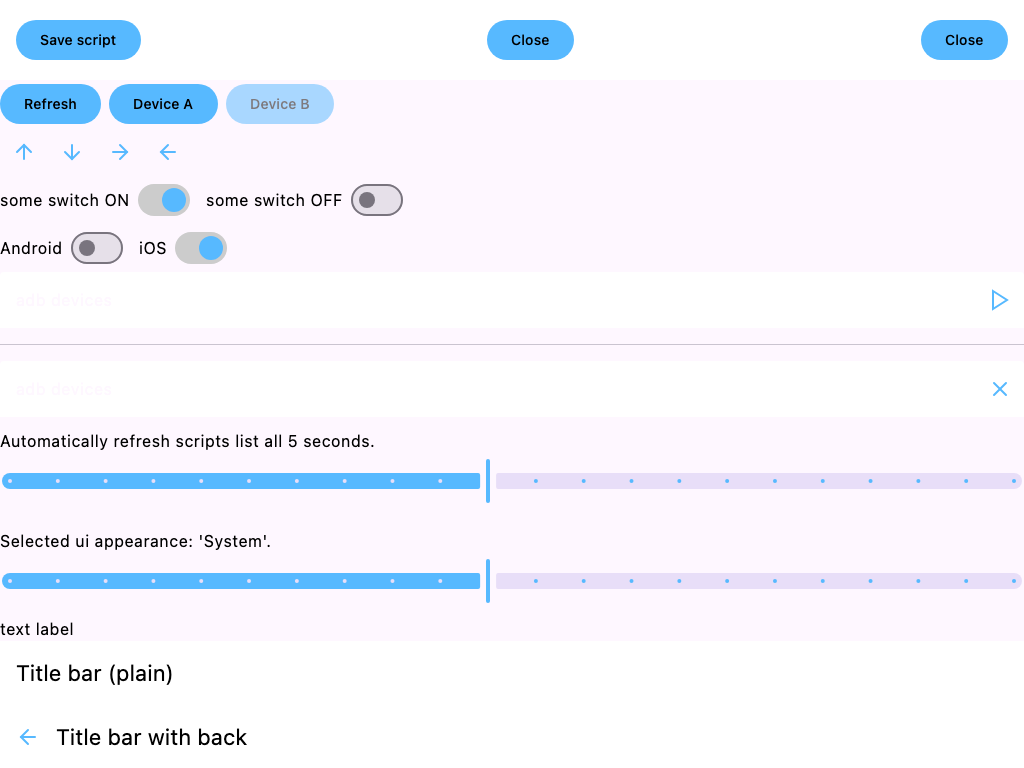
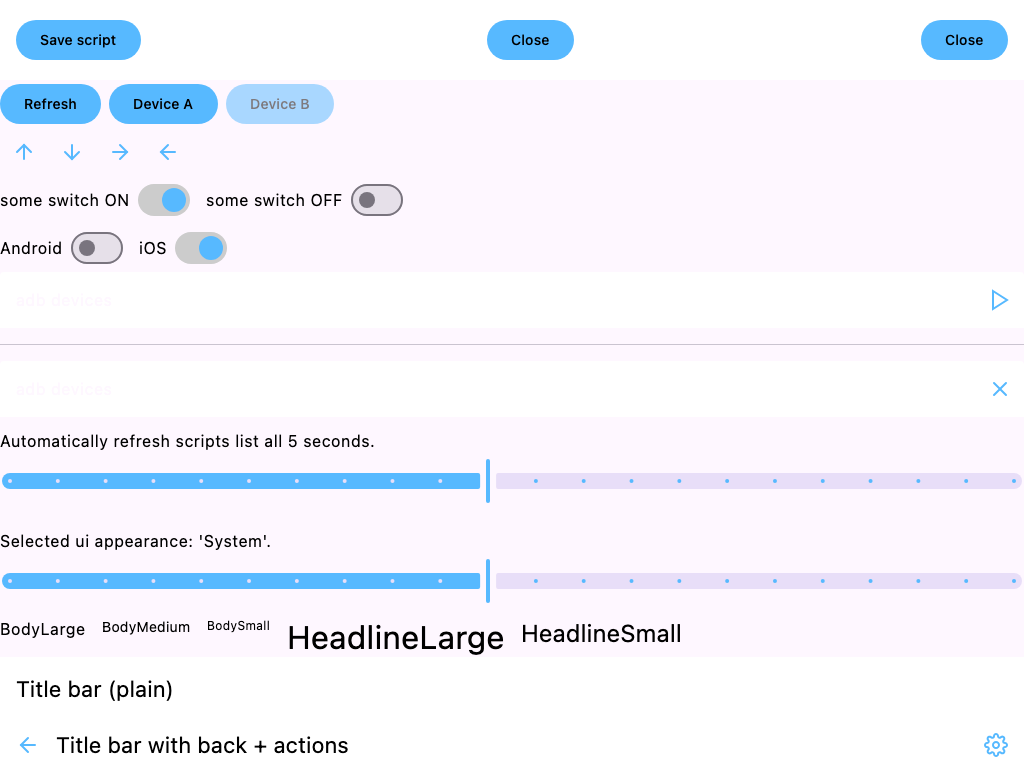
Fix/Improve

diff --git a/composeApp/src/commonMain/kotlin/de/joz/appcommander/ui/scripts/ScriptsScreen.kt b/composeApp/src/commonMain/kotlin/de/joz/appcommander/ui/scripts/ScriptsScreen.kt
@@ -22,7 +22,6 @@ import androidx.compose.material3.Icon
 import androidx.compose.material3.IconButton
 import androidx.compose.material3.MaterialTheme
 import androidx.compose.material3.Scaffold
-import androidx.compose.material3.Text
 import androidx.compose.runtime.Composable
 import androidx.compose.runtime.getValue
 import androidx.compose.runtime.mutableStateOf
@@ -57,6 +56,8 @@ import de.joz.appcommander.ui.misc.ExpandButton
 import de.joz.appcommander.ui.misc.PlatformSelection
 import de.joz.appcommander.ui.misc.ScriptInput
 import de.joz.appcommander.ui.misc.SectionDivider
+import de.joz.appcommander.ui.misc.TextLabel
+import de.joz.appcommander.ui.misc.TextLabelType
 import de.joz.appcommander.ui.misc.TitleBar
 import de.joz.appcommander.ui.misc.TitleBarAction
 import de.joz.appcommander.ui.scripts.ScriptsViewModel.Script
@@ -199,11 +200,11 @@ private fun ConnectedDevices(
 		modifier = modifier.fillMaxWidth(),
 		verticalArrangement = Arrangement.spacedBy(8.dp),
 	) {
-		Text(
+		TextLabel(
 			text = stringResource(Res.string.scripts_hint),
-			style = MaterialTheme.typography.bodySmall,
+			textLabelType = TextLabelType.BodySmall,
 		)
-		Text(
+		TextLabel(
 			text =
 				stringResource(
 					if (connectedDevices.isNotEmpty()) {
@@ -212,6 +213,7 @@ private fun ConnectedDevices(
 						Res.string.scripts_hint_no_devices
 					},
 				),
+			textLabelType = TextLabelType.BodyLarge,
 		)
 
 		DevicesBar(
@@ -249,15 +251,15 @@ private fun ScriptsSection(
 						Column(
 							modifier = Modifier.fillMaxWidth().weight(1f),
 						) {
-							Text(
+							TextLabel(
 								modifier = Modifier.fillMaxWidth(),
 								text = script.description,
-								style = MaterialTheme.typography.bodyMedium,
+								textLabelType = TextLabelType.BodyMedium,
 							)
-							Text(
+							TextLabel(
 								modifier = Modifier.fillMaxWidth(),
 								text = script.scriptText,
-								style = MaterialTheme.typography.bodySmall,
+								textLabelType = TextLabelType.BodySmall,
 							)
 						}
 						EditButtonItem(
@@ -277,20 +279,20 @@ private fun ScriptsSection(
 						verticalAlignment = Alignment.CenterVertically,
 						horizontalArrangement = Arrangement.SpaceBetween,
 					) {
-						Text(
+						TextLabel(
 							text = script.description,
-							style = MaterialTheme.typography.bodyMedium,
+							textLabelType = TextLabelType.BodyMedium,
 						)
-						Text(
+						TextLabel(
 							text = " | ",
-							style = MaterialTheme.typography.bodySmall,
+							textLabelType = TextLabelType.BodySmall,
 						)
-						Text(
+						TextLabel(
 							modifier = Modifier.weight(1f),
 							text = script.scriptText,
 							maxLines = 1,
 							overflow = TextOverflow.Ellipsis,
-							style = MaterialTheme.typography.bodySmall,
+							textLabelType = TextLabelType.BodySmall,
 						)
 						EditButtonItem(
 							isAtMinimumOneDeviceSelected = isAtMinimumOneDeviceSelected,
@@ -327,9 +329,10 @@ private fun LoggingSection(
 			modifier = Modifier.height(36.dp),
 			verticalAlignment = Alignment.CenterVertically,
 		) {
-			Text(
+			TextLabel(
 				text = stringResource(Res.string.scripts_logging_section_title),
 				modifier = Modifier.weight(1f).padding(horizontal = 8.dp),
+				textLabelType = TextLabelType.BodyLarge,
 			)
 			AnimatedVisibility(visible = isExpanded) {
 				IconButton(
@@ -353,9 +356,9 @@ private fun LoggingSection(
 				modifier = modifier.heightIn(max = 250.dp).wrapContentHeight(),
 			) {
 				items(logging) { item ->
-					Text(
+					TextLabel(
 						text = item,
-						style = MaterialTheme.typography.bodySmall,
+						textLabelType = TextLabelType.BodySmall,
 					)
 				}
 			}
@@ -379,9 +382,10 @@ private fun TerminalSection(onExecuteScriptText: (String, ScriptsRepository.Plat
 			modifier = Modifier.height(36.dp),
 			verticalAlignment = Alignment.CenterVertically,
 		) {
-			Text(
+			TextLabel(
 				text = stringResource(Res.string.scripts_terminal_section_title),
 				modifier = Modifier.padding(horizontal = 8.dp).weight(1f),
+				textLabelType = TextLabelType.BodyLarge,
 			)
 			ExpandButton(
 				isExpanded = isExpanded,
@@ -516,7 +520,7 @@ private fun PreviewScriptScreen_Dark() {
 			onExpand = {},
 			onOpenScriptFile = {},
 			onNewScriptFile = {},
-			onDeviceSelect = { devive -> },
+			onDeviceSelect = { _ -> },
 			onClearLogging = {},
 			onEditScript = {},
 		)
@@ -579,7 +583,7 @@ private fun PreviewScriptScreen_Light() {
 			onExpand = {},
 			onOpenScriptFile = {},
 			onNewScriptFile = {},
-			onDeviceSelect = { devive -> },
+			onDeviceSelect = { _ -> },
 			onClearLogging = {},
 			onEditScript = {},
 		)

diff --git a/composeApp/src/commonMain/kotlin/de/joz/appcommander/ui/edit/EditScriptScreen.kt b/composeApp/src/commonMain/kotlin/de/joz/appcommander/ui/edit/EditScriptScreen.kt
@@ -6,7 +6,6 @@ import androidx.compose.foundation.layout.fillMaxSize
 import androidx.compose.foundation.layout.padding
 import androidx.compose.material3.MaterialTheme
 import androidx.compose.material3.Scaffold
-import androidx.compose.material3.Text
 import androidx.compose.runtime.Composable
 import androidx.compose.ui.Modifier
 import androidx.compose.ui.unit.dp
@@ -29,6 +28,8 @@ import de.joz.appcommander.ui.misc.PlatformSelection
 import de.joz.appcommander.ui.misc.ScriptInput
 import de.joz.appcommander.ui.misc.SectionDivider
 import de.joz.appcommander.ui.misc.SimpleTextInput
+import de.joz.appcommander.ui.misc.TextLabel
+import de.joz.appcommander.ui.misc.TextLabelType
 import de.joz.appcommander.ui.misc.TitleBar
 import de.joz.appcommander.ui.theme.AppCommanderTheme
 import org.jetbrains.compose.resources.stringResource
@@ -107,9 +108,9 @@ internal fun EditScriptContent(
 			Modifier.fillMaxSize().padding(paddingValues).padding(16.dp),
 			verticalArrangement = Arrangement.spacedBy(8.dp),
 		) {
-			Text(
+			TextLabel(
 				text = stringResource(Res.string.edit_script_name),
-				style = MaterialTheme.typography.bodyLarge,
+				textLabelType = TextLabelType.BodyLarge,
 			)
 			SimpleTextInput(
 				value = uiState.scriptName,
@@ -118,9 +119,9 @@ internal fun EditScriptContent(
 
 			SectionDivider()
 
-			Text(
+			TextLabel(
 				text = stringResource(Res.string.edit_enter_or_edit),
-				style = MaterialTheme.typography.bodyLarge,
+				textLabelType = TextLabelType.BodyLarge,
 			)
 			ScriptInput(
 				script =
@@ -137,9 +138,9 @@ internal fun EditScriptContent(
 
 			SectionDivider()
 
-			Text(
+			TextLabel(
 				text = stringResource(Res.string.edit_select_platform),
-				style = MaterialTheme.typography.bodyLarge,
+				textLabelType = TextLabelType.BodyLarge,
 			)
 			PlatformSelection(
 				selectedPlatform = uiState.selectedPlatform,
@@ -148,9 +149,9 @@ internal fun EditScriptContent(
 
 			SectionDivider()
 
-			Text(
+			TextLabel(
 				text = stringResource(Res.string.edit_select_devices),
-				style = MaterialTheme.typography.bodyLarge,
+				textLabelType = TextLabelType.BodyLarge,
 			)
 			DevicesBar(
 				connectedDevices = emptyList(),

diff --git a/composeApp/src/commonMain/kotlin/de/joz/appcommander/ui/misc/TextLabel.kt b/composeApp/src/commonMain/kotlin/de/joz/appcommander/ui/misc/TextLabel.kt
@@ -7,19 +7,27 @@ import androidx.compose.material3.Text
 import androidx.compose.runtime.Composable
 import androidx.compose.ui.Modifier
 import androidx.compose.ui.text.TextStyle
+import androidx.compose.ui.text.style.TextAlign
+import androidx.compose.ui.text.style.TextOverflow
 import androidx.compose.ui.unit.dp
 import de.joz.appcommander.ui.theme.AppCommanderTheme
 import org.jetbrains.compose.ui.tooling.preview.Preview
 
 @Composable
 fun TextLabel(
-	label: String,
-	textLabelType: TextLabelType = TextLabelType.BodyLarge,
-	textModifier: Modifier = Modifier,
+	text: String,
+	textLabelType: TextLabelType,
+	modifier: Modifier = Modifier,
+	maxLines: Int = Int.MAX_VALUE,
+	textAlign: TextAlign = TextAlign.Start,
+	overflow: TextOverflow = TextOverflow.Clip,
 ) {
 	Text(
-		text = label,
-		modifier = textModifier,
+		text = text,
+		modifier = modifier,
+		maxLines = maxLines,
+		textAlign = textAlign,
+		overflow = overflow,
 		style =
 			when (textLabelType) {
 				TextLabelType.BodyLarge -> MaterialTheme.typography.bodyLarge.applyThemeColor()
@@ -56,7 +64,8 @@ internal fun PreviewTextLabel_Dark() {
 		) {
 			TextLabelType.entries.forEach {
 				TextLabel(
-					label = it.name,
+					text = it.name,
+					textLabelType = it,
 				)
 			}
 		}
@@ -74,7 +83,8 @@ internal fun PreviewTextLabel_Light() {
 		) {
 			TextLabelType.entries.forEach {
 				TextLabel(
-					label = it.name,
+					text = it.name,
+					textLabelType = it,
 				)
 			}
 		}

diff --git a/composeApp/src/commonMain/kotlin/de/joz/appcommander/ui/welcome/WelcomeScreen.kt b/composeApp/src/commonMain/kotlin/de/joz/appcommander/ui/welcome/WelcomeScreen.kt
@@ -39,6 +39,8 @@ import de.joz.appcommander.resources.welcome_catch_phrase
 import de.joz.appcommander.resources.welcome_do_not_show_again
 import de.joz.appcommander.resources.welcome_title
 import de.joz.appcommander.ui.misc.LabelledSwitch
+import de.joz.appcommander.ui.misc.TextLabel
+import de.joz.appcommander.ui.misc.TextLabelType
 import de.joz.appcommander.ui.welcome.bubble.BubblesStrategy
 import de.joz.appcommander.ui.welcome.bubble.FadingInBubblesStrategy
 import org.jetbrains.compose.resources.painterResource
@@ -104,16 +106,16 @@ internal fun WelcomeContent(
 			horizontalAlignment = Alignment.CenterHorizontally,
 			verticalArrangement = Arrangement.Center,
 		) {
-			Text(
+			TextLabel(
 				modifier = Modifier.padding(top = 24.dp),
 				text = stringResource(Res.string.welcome_title),
-				style = MaterialTheme.typography.headlineLarge,
+				textLabelType = TextLabelType.HeadlineLarge,
 				textAlign = TextAlign.Center,
 			)
 			Spacer(Modifier.height(16.dp))
-			Text(
+			TextLabel(
 				text = stringResource(Res.string.welcome_catch_phrase),
-				style = MaterialTheme.typography.headlineSmall,
+				textLabelType = TextLabelType.HeadlineSmall,
 				textAlign = TextAlign.Center,
 			)
 			Spacer(Modifier.height(12.dp))

diff --git a/composeApp/src/commonTest/kotlin/de/joz/appcommander/ui/misc/UiElementsTest.kt b/composeApp/src/commonTest/kotlin/de/joz/appcommander/ui/misc/UiElementsTest.kt
@@ -3,14 +3,12 @@ package de.joz.appcommander.ui.misc
 import androidx.compose.foundation.background
 import androidx.compose.foundation.layout.Arrangement
 import androidx.compose.foundation.layout.Column
-import androidx.compose.foundation.layout.fillMaxWidth
-import androidx.compose.foundation.layout.height
+import androidx.compose.foundation.layout.fillMaxSize
 import androidx.compose.material3.MaterialTheme
 import androidx.compose.ui.Modifier
 import androidx.compose.ui.test.ComposeUiTest
 import androidx.compose.ui.test.ExperimentalTestApi
 import androidx.compose.ui.test.runComposeUiTest
-import androidx.compose.ui.unit.dp
 import de.joz.appcommander.helper.ScreenshotVerifier
 import de.joz.appcommander.ui.theme.AppCommanderTheme
 import kotlin.test.Test
@@ -58,8 +56,7 @@ class UiElementsTest {
 					Column(
 						modifier =
 							Modifier
-								.fillMaxWidth()
-								.height(1200.dp)
+								.fillMaxSize()
 								.background(MaterialTheme.colorScheme.background),
 						verticalArrangement = Arrangement.SpaceEvenly,
 					) {

diff --git a/composeApp/src/commonMain/kotlin/de/joz/appcommander/ui/misc/Slider.kt b/composeApp/src/commonMain/kotlin/de/joz/appcommander/ui/misc/Slider.kt
@@ -4,9 +4,7 @@ import androidx.compose.foundation.layout.Arrangement
 import androidx.compose.foundation.layout.Column
 import androidx.compose.foundation.layout.fillMaxWidth
 import androidx.compose.foundation.layout.padding
-import androidx.compose.material3.MaterialTheme
 import androidx.compose.material3.Slider
-import androidx.compose.material3.Text
 import androidx.compose.runtime.Composable
 import androidx.compose.runtime.NonSkippableComposable
 import androidx.compose.ui.Modifier
@@ -30,9 +28,9 @@ fun Slider(
 		verticalArrangement = Arrangement.spacedBy(4.dp),
 		modifier = Modifier.padding(vertical = 12.dp),
 	) {
-		Text(
+		TextLabel(
 			text = stringResource(sliderItem.label, sliderItem.labelValue.toUiString()),
-			style = MaterialTheme.typography.bodyLarge,
+			textLabelType = TextLabelType.BodyLarge,
 		)
 		Slider(
 			value = sliderItem.sliderValue,

diff --git a/composeApp/src/commonMain/kotlin/de/joz/appcommander/ui/misc/LabelledSwitch.kt b/composeApp/src/commonMain/kotlin/de/joz/appcommander/ui/misc/LabelledSwitch.kt
@@ -7,7 +7,6 @@ import androidx.compose.foundation.layout.Row
 import androidx.compose.material3.MaterialTheme
 import androidx.compose.material3.Switch
 import androidx.compose.material3.SwitchDefaults
-import androidx.compose.material3.Text
 import androidx.compose.runtime.Composable
 import androidx.compose.runtime.remember
 import androidx.compose.ui.Alignment
@@ -41,13 +40,10 @@ fun LabelledSwitch(
 		horizontalArrangement = Arrangement.spacedBy(8.dp),
 		verticalAlignment = Alignment.CenterVertically,
 	) {
-		Text(
+		TextLabel(
 			text = label,
 			modifier = textModifier,
-			style =
-				MaterialTheme.typography.bodyLarge.copy(
-					color = MaterialTheme.colorScheme.onSurface,
-				),
+			textLabelType = TextLabelType.BodyLarge,
 		)
 
 		Switch(

diff --git a/composeApp/src/commonMain/kotlin/de/joz/appcommander/ui/misc/TitleBar.kt b/composeApp/src/commonMain/kotlin/de/joz/appcommander/ui/misc/TitleBar.kt
@@ -74,10 +74,6 @@ internal fun PreviewTitleBar_Dark() {
 				title = "Title bar (plain)",
 			)
 			TitleBar(
-				title = "Title bar with back",
-				onBackNavigation = {},
-			)
-			TitleBar(
 				title = "Title bar with back + actions",
 				onBackNavigation = {},
 				actions =
@@ -103,10 +99,6 @@ internal fun PreviewTitleBar_Light() {
 		) {
 			TitleBar(
 				title = "Title bar (plain)",
-			)
-			TitleBar(
-				title = "Title bar with back",
-				onBackNavigation = {},
 			)
 			TitleBar(
 				title = "Title bar with back + actions",
